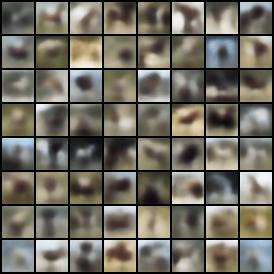
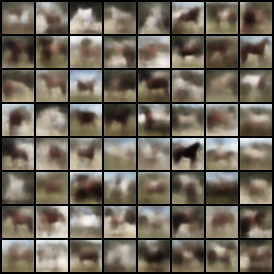
added more kernels to pegasus

diff --git a/pegasus.py b/pegasus.py
@@ -23,7 +23,7 @@ cifar = torchvision.datasets.CIFAR10('data', train=True, download=True, transfor
 
 indecies=[]
 for i in range(len(cifar)):
-    if cifar[i][1] in [2,7]:
+    if cifar[i][1] in [7]:
         indecies.append(i)
 
 dataset = torch.utils.data.Subset(cifar,indecies)
@@ -36,15 +36,17 @@ print(f'> Size of training dataset {len(train_loader.dataset)}')
 
 
 class VAE(nn.Module):
-    def __init__(self, intermediate_size=128, hidden_size=20):
+    def __init__(self, intermediate_size=256, hidden_size=20):
         super(VAE, self).__init__()
 
+        self.pool = nn.MaxPool2d(kernel_size=2, stride=2, padding=0)
+
         # encoder
-        self.conv1 = nn.Conv2d(3, 3, kernel_size=3, stride=1, padding=1)
-        self.conv2 = nn.Conv2d(3, 32, kernel_size=2, stride=2, padding=0)
-        self.conv3 = nn.Conv2d(32, 32, kernel_size=3, stride=1, padding=1)
-        self.conv4 = nn.Conv2d(32, 32, kernel_size=3, stride=1, padding=1)
-        self.fc1 = nn.Linear(16 * 16 * 32, intermediate_size)
+        self.conv1 = nn.Conv2d(3, 128, kernel_size=3, stride=1, padding=1)
+        self.conv2 = nn.Conv2d(128, 128, kernel_size=2, stride=2, padding=0)
+        self.conv3 = nn.Conv2d(128, 64, kernel_size=3, stride=1, padding=1)
+        self.conv4 = nn.Conv2d(64, 64, kernel_size=3, stride=1, padding=1)
+        self.fc1 = nn.Linear(8 * 8 * 64, intermediate_size)
 
         # latent space
         self.fc21 = nn.Linear(intermediate_size, hidden_size)
@@ -52,17 +54,18 @@ class VAE(nn.Module):
 
         # decoder
         self.fc3 = nn.Linear(hidden_size, intermediate_size)
-        self.fc4 = nn.Linear(intermediate_size, 8192)
-        self.deconv1 = nn.ConvTranspose2d(32, 32, kernel_size=3, stride=1, padding=1)
-        self.deconv2 = nn.ConvTranspose2d(32, 32, kernel_size=3, stride=1, padding=1)
-        self.deconv3 = nn.ConvTranspose2d(32, 32, kernel_size=2, stride=2, padding=0)
-        self.conv5 = nn.Conv2d(32, 3, kernel_size=3, stride=1, padding=1)
+        self.fc4 = nn.Linear(intermediate_size, 16 * 16 * 32)
+        self.deconv1 = nn.ConvTranspose2d(32, 64, kernel_size=3, stride=1, padding=1)
+        self.deconv2 = nn.ConvTranspose2d(64, 128, kernel_size=3, stride=1, padding=1)
+        self.deconv3 = nn.ConvTranspose2d(128, 128, kernel_size=2, stride=2, padding=0)
+        self.conv5 = nn.Conv2d(128, 3, kernel_size=3, stride=1, padding=1)
 
     def encode(self, x):
         out = F.relu(self.conv1(x))
         out = F.relu(self.conv2(out))
         out = F.relu(self.conv3(out))
         out = F.relu(self.conv4(out))
+        out = self.pool(out)
         out = out.view(out.size(0), -1)
         h1  = F.relu(self.fc1(out))
         return self.fc21(h1), self.fc22(h1)
@@ -97,7 +100,7 @@ print(f'> Number of network parameters {len(torch.nn.utils.parameters_to_vector(
 
 # initialise the optimiser
 optimiser = torch.optim.Adam(N.parameters(), lr=0.001)
-num_epochs = 5
+num_epochs = 50
 
 # VAE loss has a reconstruction term and a KL divergence term summed over all elements and the batch
 def vae_loss(p, x, mu, logvar):
@@ -110,6 +113,8 @@ def vae_loss(p, x, mu, logvar):
     KLD = -0.5 * torch.sum(1 + logvar - mu.pow(2) - logvar.exp())
 
     return BCE + KLD
+
+open('results_pegasus.txt','w').close()
 
 # training loop, feel free to also train on the test dataset if you like
 for epoch in range(1,num_epochs+1):
@@ -136,6 +141,10 @@ for epoch in range(1,num_epochs+1):
         train_loss_arr = np.append(train_loss_arr, loss.cpu().data)
 
     print('Train Loss: {:.4f}'.format(train_loss_arr.mean()))
+
+    with open('results_pegasus.txt','a') as results:
+        results.write('Epoch {}/{} \n'.format(epoch,num_epochs))
+        results.write('Train Loss: {:.4f} \n'.format(train_loss_arr.mean()))
 
     epoch = epoch+1
 
